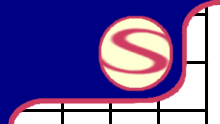
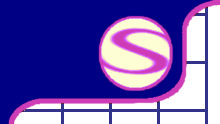
Overhauled site theam :)

Changed region(s): [[0.0273, 0.0, 1.0, 1.0], [0.4364, 0.121, 0.7909, 0.75]]

diff --git a/text/mainLayout.css b/text/mainLayout.css
@@ -46,13 +46,18 @@ body
     min-width: 220px;
     max-width: 220px;
     min-height: 124px;
-    /*    background-color: #FFD1E2;*/
+    /* Theme 1.0 color */
+    /* background-color: #FFD1E2; */
+    /* Theme 1.1 color */
     background-color: #FFDBE8;
 }
 
 .column.LR.main_page
 {
-    background-color: #d3f6fd;    
+    /* Theme 1.0 color */
+    /* background-color: #d3f6fd; */
+    /* Theme 1.1 color */
+    background-color: #FFDBE8;
 }
 
 .column.l
@@ -77,8 +82,11 @@ body
     min-height: calc(100% - 250px);
     padding-top: 1px;
     padding-bottom: 1px;
-    background-color: inherit;    
-    background-image: url("media/border/grid_2_left.png");
+    background-color: inherit;
+    /* Theme 1.0 background */
+    /* background-image: url("media/border/grid_2_left.png"); */
+    /* Theme 1.1 background */
+    background-image: url("media/border/grid_2_left.png"), url("media/border/bg_gif_overlay.png"), url("media/border/bg_l.gif");
 }
 
 .column.left_bottom
@@ -101,7 +109,10 @@ body
     padding-top: 1px;
     padding-bottom: 1px;
     background-color: inherit;
+    /* Theme 1.0 background */
     background-image: url("media/border/grid_2_right.png");
+    /* Theme 1.1 background */
+    background-image: url("media/border/grid_2_right.png"), url("media/border/bg_gif_overlay.png"), url("media/border/bg_r.gif");
 }
 
 .column.right_bottom
@@ -128,7 +139,10 @@ footer
 /*<{ Nice shadow effects }>---------------------------------------------------------------*/
 .inset_shadow
 {
-    box-shadow: inset 0 0 15px #c40e00;    
+    /* Theme 1.0 color */
+    /* box-shadow: inset 0 0 15px #c40e00; */
+    /* Theme 1.1 color */
+    box-shadow: inset 0 0 15px #bf19e3;
 }
 /*<{ Nice shadow effects }>---------------------------------------------------------------*/
 
@@ -165,12 +179,18 @@ footer
 .menu_element.l
 {
     text-align: right;
-    box-shadow:  -2px 0px 0px 0px #ce3c61, 0 3px 3px 0px #c40e00,  0 -3px 3px 0px #c40e00;
+    /* Theme 1.0 color */
+    /* box-shadow:  -2px 0px 0px 0px #ce3c61, 0 3px 3px 0px #c40e00,  0 -3px 3px 0px #c40e00; */
+    /* Theme 1.1 color */
+    box-shadow:  -2px 0px 0px 0px #ce3cb7, 0 3px 3px 0px #ce3cb7,  0 -3px 3px 0px #ce3cb7;
 }
 .menu_element.r
 {
     text-align: left;
-    box-shadow:  4px 0px 0px 0px #ce3c61, 1px 3px 3px 0px #c40e00,  1px -3px 3px 0px #c40e00;
+    /* Theme 1.0 color */
+    /* box-shadow:  4px 0px 0px 0px #ce3c61, 1px 3px 3px 0px #c40e00,  1px -3px 3px 0px #c40e00; */
+    /* Theme 1.1 color */
+    box-shadow:  4px 0px 0px 0px #ce3cb7, 1px 3px 3px 0px #ce3cb7,  1px -3px 3px 0px #ce3cb7;
 }
 
 .menu_element:hover
@@ -226,7 +246,10 @@ p
     font-style: italic;
     font-family: serif;
     font-size: 0.92em;
-    color: #03004D;
+    /* Theme 1.0 color */
+    /* color: #03004D; */
+    /* Theme 1.1 color */
+    color: #0b0887;
     font-weight: normal;
     text-shadow: none;
     word-break: break-word;
@@ -244,7 +267,10 @@ article
 
 strong, h2, h3, h4, h5, h6
 {
-    color: #ff0084;
+    /* Theme 1.0 color */
+    /* color: #ff0084; */
+    /* Theme 1.1 color */
+    color: #ff01fc;
     text-shadow: 1px 1px #03004D;
 }
 
@@ -268,8 +294,12 @@ main
     order: 2;
     width: 100%;
     border: 0px;
-    border-top: 5px solid #ce3c61;
-    border-bottom: 5px solid #ce3c61;
+    /* There 1.0 color */
+    /* border-top: 5px solid #ce3c61;
+    border-bottom: 5px solid #ce3c61; */
+    /* There 1.1 color */
+    border-top: 5px solid #ce3cb7;
+    border-bottom: 5px solid #ce3cb7;
     padding: 20px;
     padding-top: 0px;
     background-color: #FFFCE8;
@@ -291,8 +321,12 @@ If you don't do this the corners will be cut off :'(	*/
     max-height: 60px;
     margin: 0 auto;
     border-radius: 160px / 30px;
-    background: #000084;
-    box-shadow: inset 0 0 25px #c40e00;
+    /* Theme 1.0 color */
+    /* background: #000084;
+    box-shadow: inset 0 0 25px #c40e00; */
+    /* Theme 1.1 color */
+    box-shadow: inset 0 0 25px #e90927;
+    background: #050594;
 }
 
 #main_tag_in_main_min_height
@@ -303,8 +337,12 @@ bottom of the page when you make the window very small.*/
 
 h1
 {
-    color: cyan;
-    text-shadow: 2px 2px #ef1000;
+    /* Theme 1.0 color */
+    /* color: cyan;
+    text-shadow: 2px 2px #ef1000; */
+    /* Theme 1.1 color */
+    color: #01fcff;
+    text-shadow: 2px 2px #f01100;
     font-family: Typographytimes;    
 }
 
@@ -324,8 +362,12 @@ h1.oval
     max-height: 32px;
     margin: 0 auto;
     border-radius: 25px;
-    background: #ff7698;
-    box-shadow:  0 0 15px #c40e00;
+    /* Theme 1.0 color */
+    /* background: #ff7698;
+    box-shadow:  0 0 15px #c40e00; */
+    /* Theme 1.1 color */
+    background: #fe78fa;
+    box-shadow:  0 0 15px #dc6af4;
 }
 
 #to_top_of_page:hover
@@ -580,7 +622,10 @@ img
     margin: 0px;
     margin-bottom: 10px;
     /* border: 13px solid #FFDBE8; */
-    box-shadow: 0 0 15px #c40e00;    
+    /* Theme 1.0 color */
+    box-shadow: 0 0 15px #c40e00;
+    /* Theme 1.1 color */
+    box-shadow: 0 0 15px #bf19e3;
 }
 
 img.margin-top
@@ -615,16 +660,25 @@ code
     margin: 0px;
     /* margin-bottom: 12px; */
     /* border: 13px solid #FFDBE8; */
-    box-shadow: 0 0 15px #c40e00;
+    /* Theme 1.0 color */
+    /* box-shadow: 0 0 15px #c40e00; */
+    /* Theme 1.1 color */
+    box-shadow: 0 0 15px #bf19e3;
     text-align: left;
 }
 
 ::selection			/* Change colour of selected text. */
 {
-  background: #fdd4dc; /* WebKit/Blink Browsers */
+    /* Theme 1.0 color */
+    /*  background: #fdd4dc; *//* WebKit/Blink Browsers */
+    /* Theme 1.1 color */
+    background: #ff4a0a;
 }
 ::-moz-selection
 {
-  background: #fdd4dc; /* Gecko Browsers */
+    /* Theme 1.0 color */
+    /* background: #fdd4dc; */ /* Gecko Browsers */
+    /* Theme 1.1 color */
+    background: #ff4a0a;
 }
 /*<{ misc }>--------------------------------------------------------------------------------------------*/
